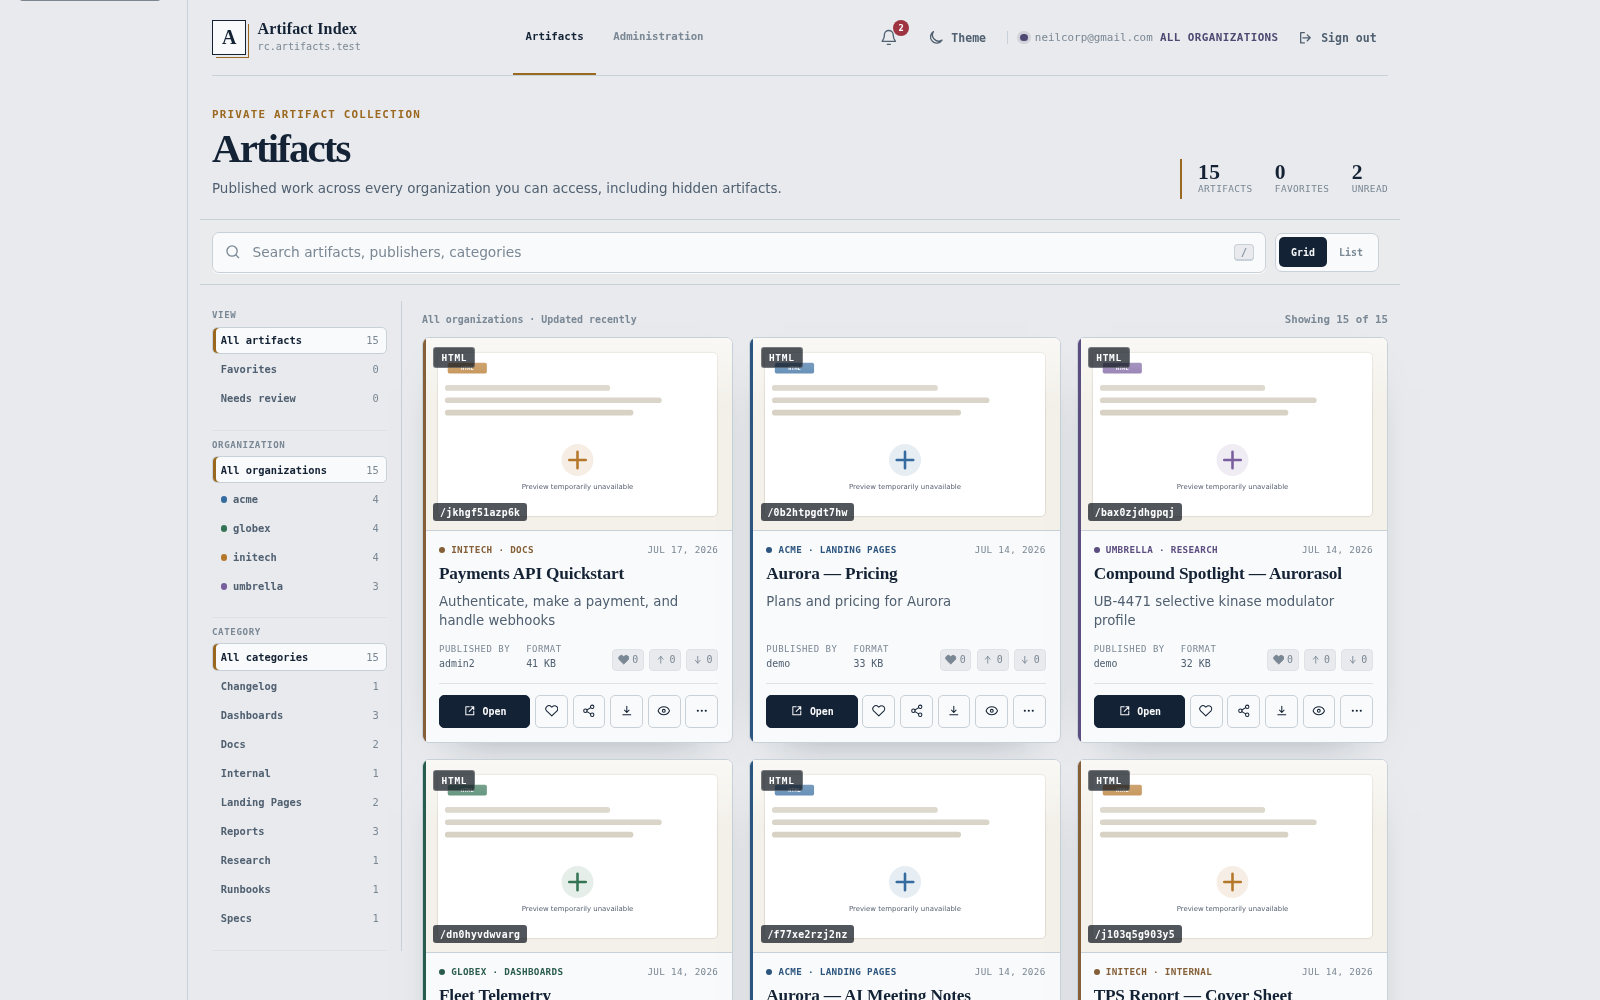
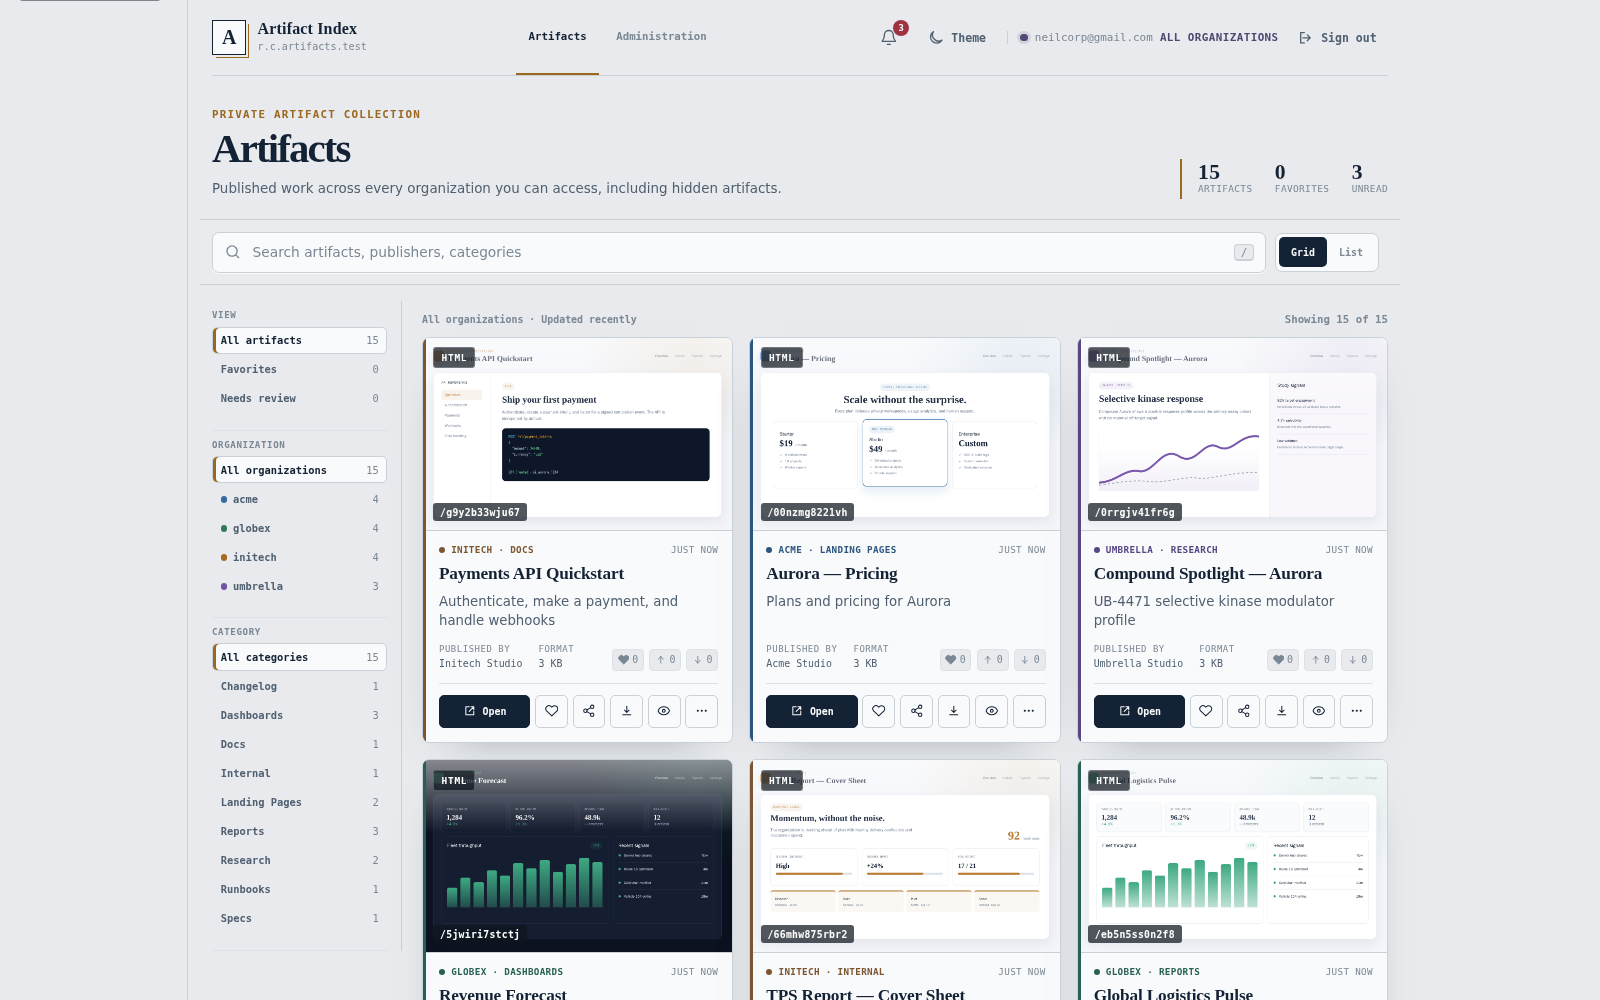
docs: refresh UI screenshots with rendered previews

diff --git a/README.md b/README.md
@@ -36,7 +36,8 @@ reference for release testing.
 ## Screenshots
 
 *Screenshots are from an isolated Rust release-candidate server seeded with fictional organizations
-(acme / globex / initech / umbrella). Both light and dark themes ship; light shown here.*
+(acme / globex / initech / umbrella) and captured with the optional preview renderer enabled. Both
+light and dark themes ship; light shown here.*
 
 | Administrator gallery | Card actions |
 |---|---|
